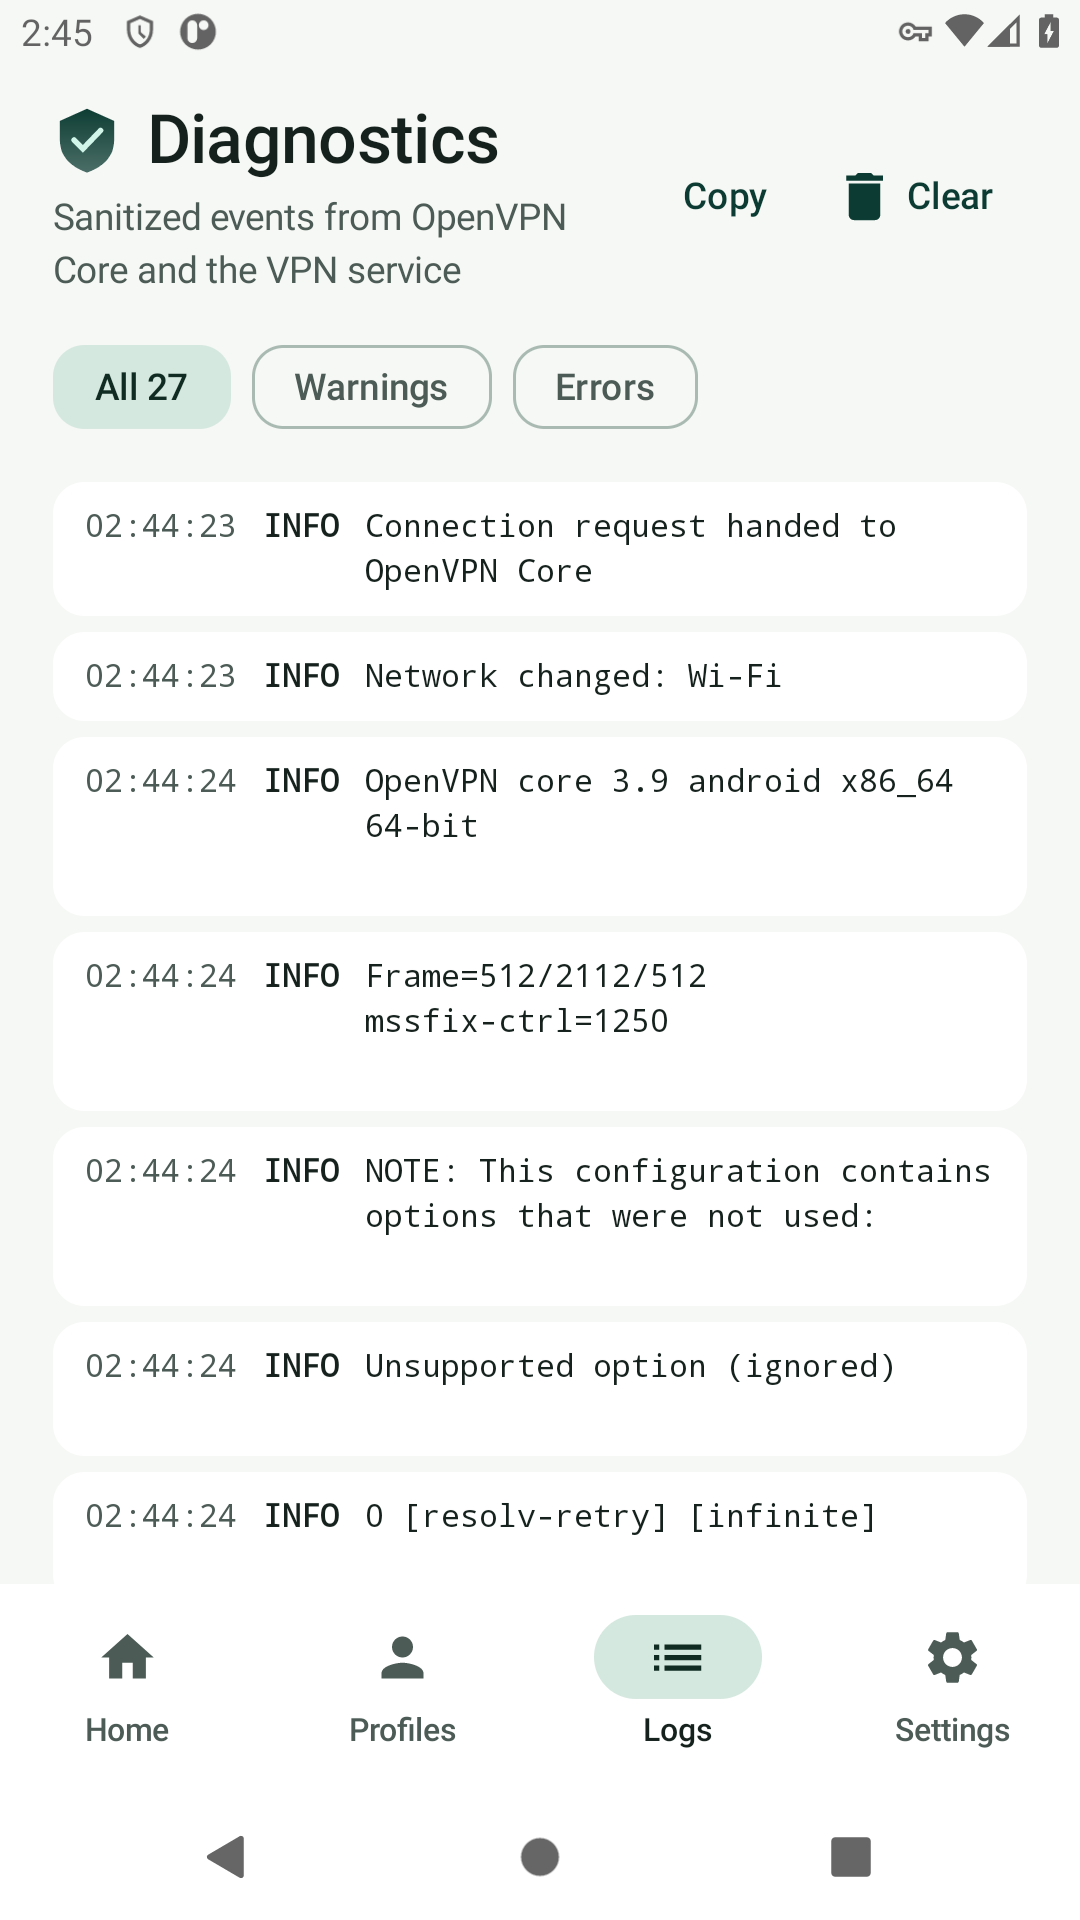
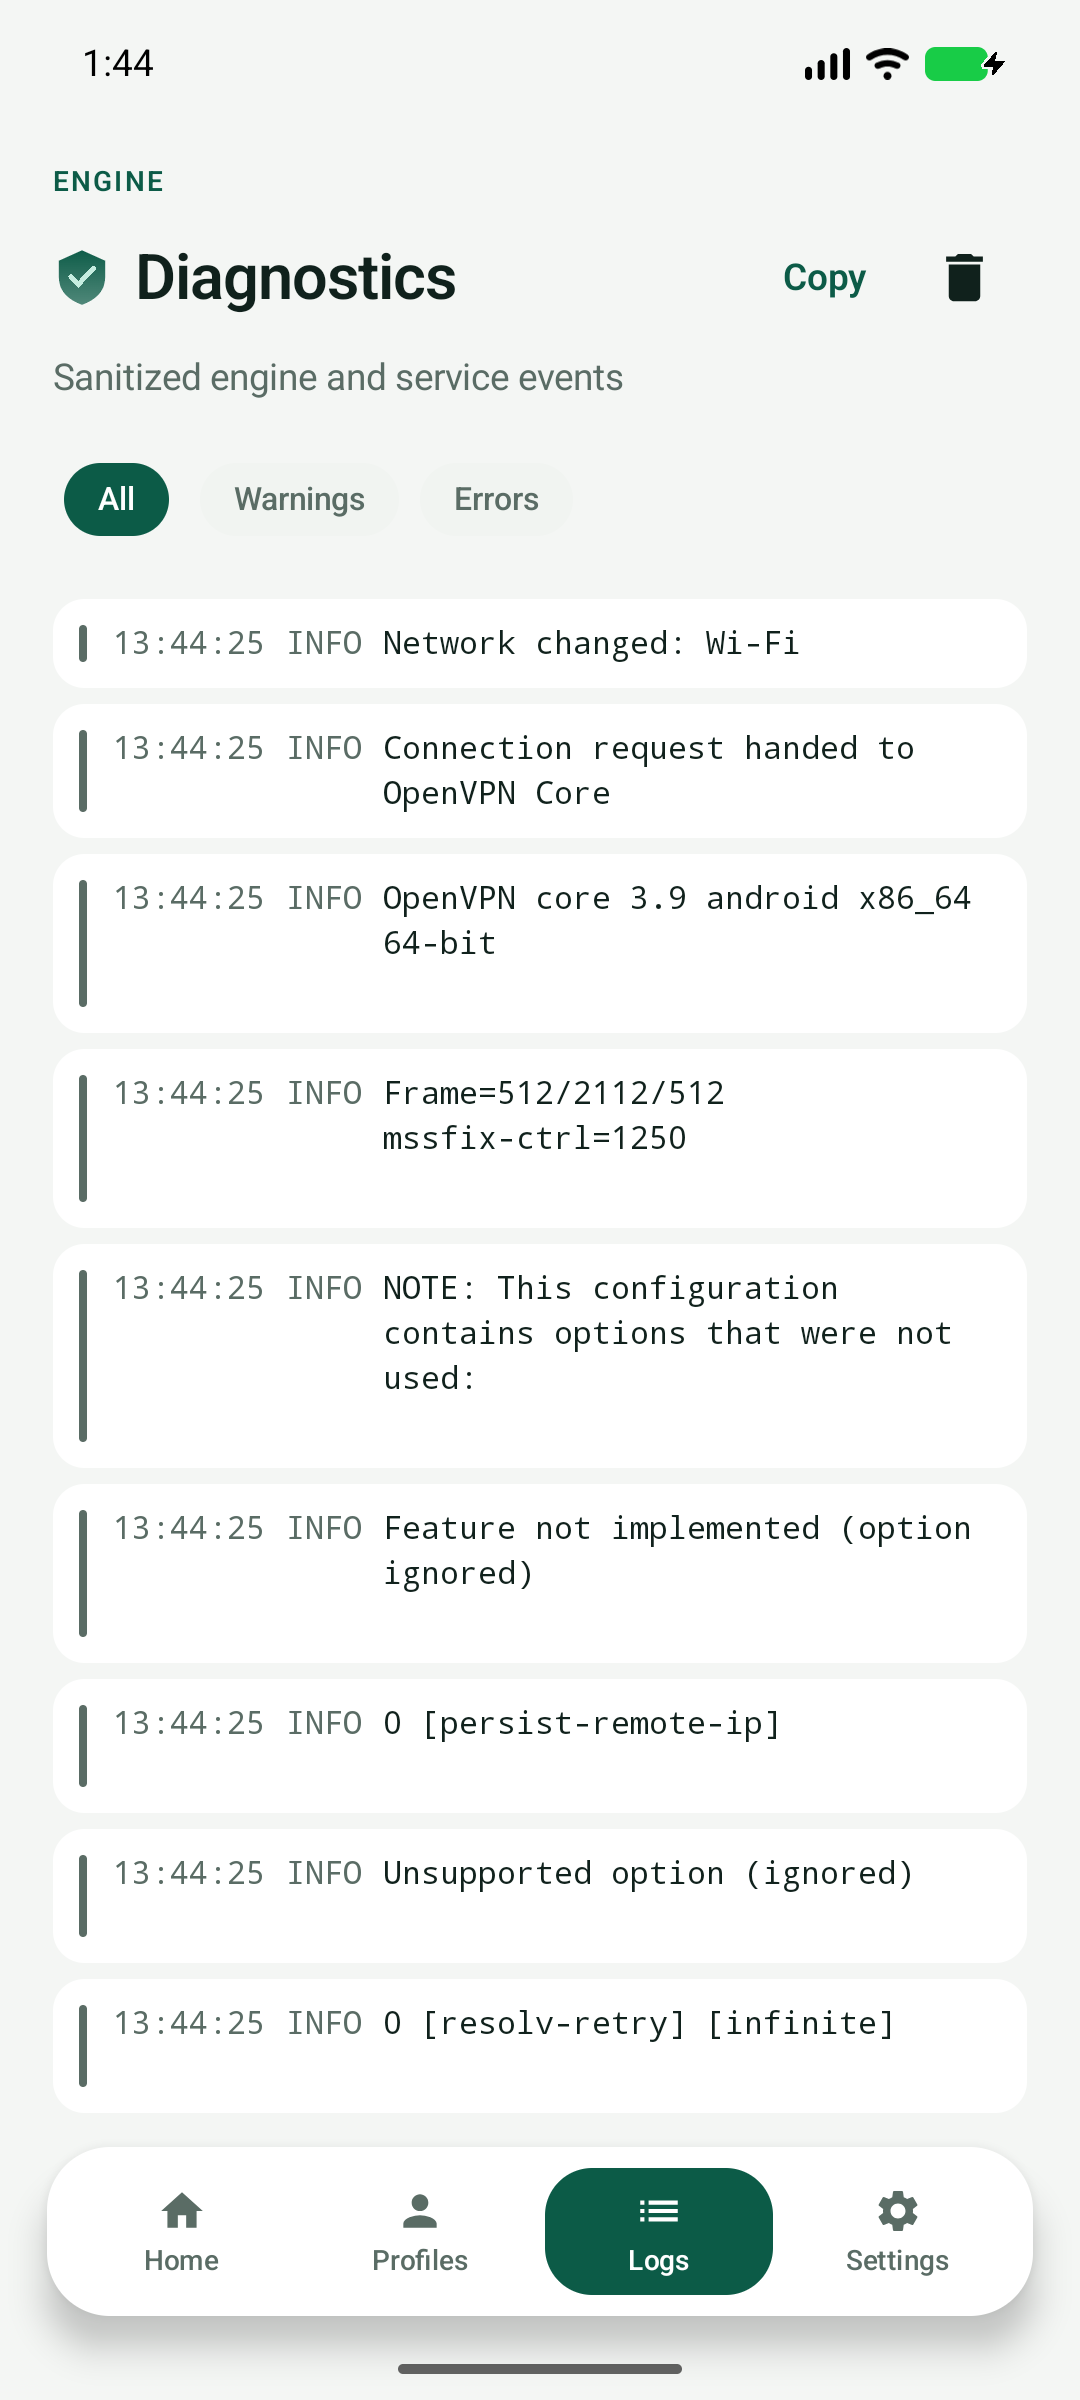
docs(ui): refresh README screenshots for the redesign
Re-capture Home, Profiles, Settings and Diagnostics from the Android 16 x86_64 emulator with the new UI, add an engine-details screenshot showing the fixed Platform row, and drop the obsolete home-connected.png.

diff --git a/README.md b/README.md
@@ -54,16 +54,23 @@ protocol or cryptography.
 
 ## Screenshots
 
-Captured from the Android 11 x86_64 emulator during the real-tunnel test
-(debug build):
+Captured from an Android 16 (API 36) x86_64 emulator, debug build, with the
+current UI. The certificate-less username/password profile shown is a provider
+export; the real tunnel was verified separately on an earlier emulator run (see
+`docs/testing.md`).
 
 | Home | Profiles |
 |---|---|
-| ![Connected home](docs/screenshots/home-connected.png) | ![Profiles](docs/screenshots/profiles.png) |
+| ![Home](docs/screenshots/home.png) | ![Profiles](docs/screenshots/profiles.png) |
 
 | Settings | Diagnostics |
 |---|---|
 | ![Settings](docs/screenshots/settings.png) | ![Diagnostics](docs/screenshots/diagnostics.png) |
+
+Engine details in Settings. The Platform value wraps instead of colliding with
+its label:
+
+![Settings diagnostics](docs/screenshots/settings-diagnostics.png)
 
 ## Architecture at a glance
 
